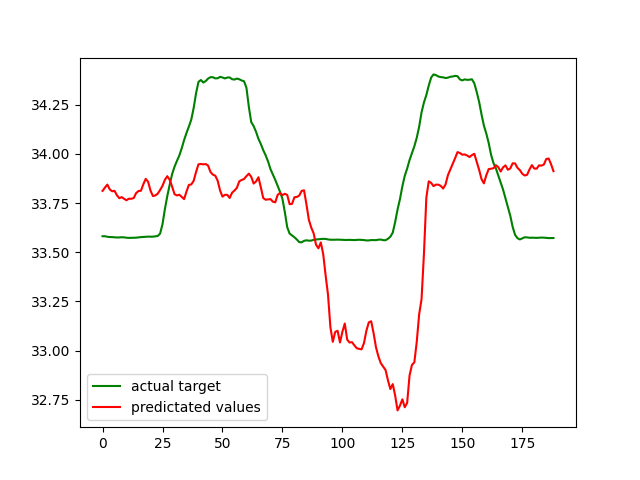
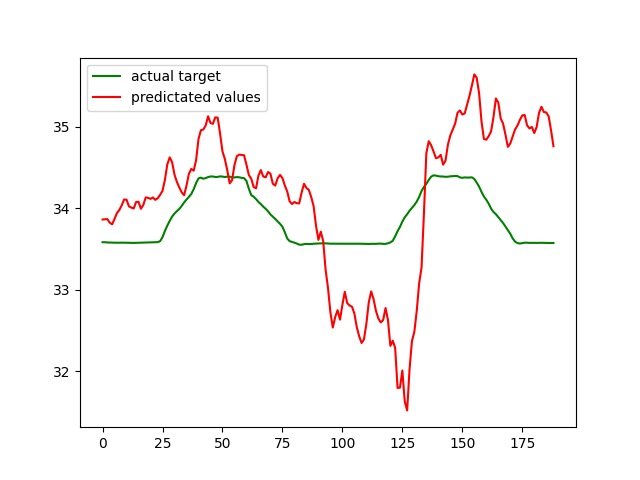
proving the RMSE
RMSE test of 0.7

diff --git a/feedforward.py b/feedforward.py
@@ -113,7 +113,7 @@ def main():
     # Create the model
     model = Sequential()
     model.add(Dense(100, activation='relu',input_dim=n_input))
-    model.add(Dropout(.2))
+    #model.add(Dropout(.2))
     model.add(Dense(5, activation = 'relu'))
     model.add(Dense(n_steps_out))
     
